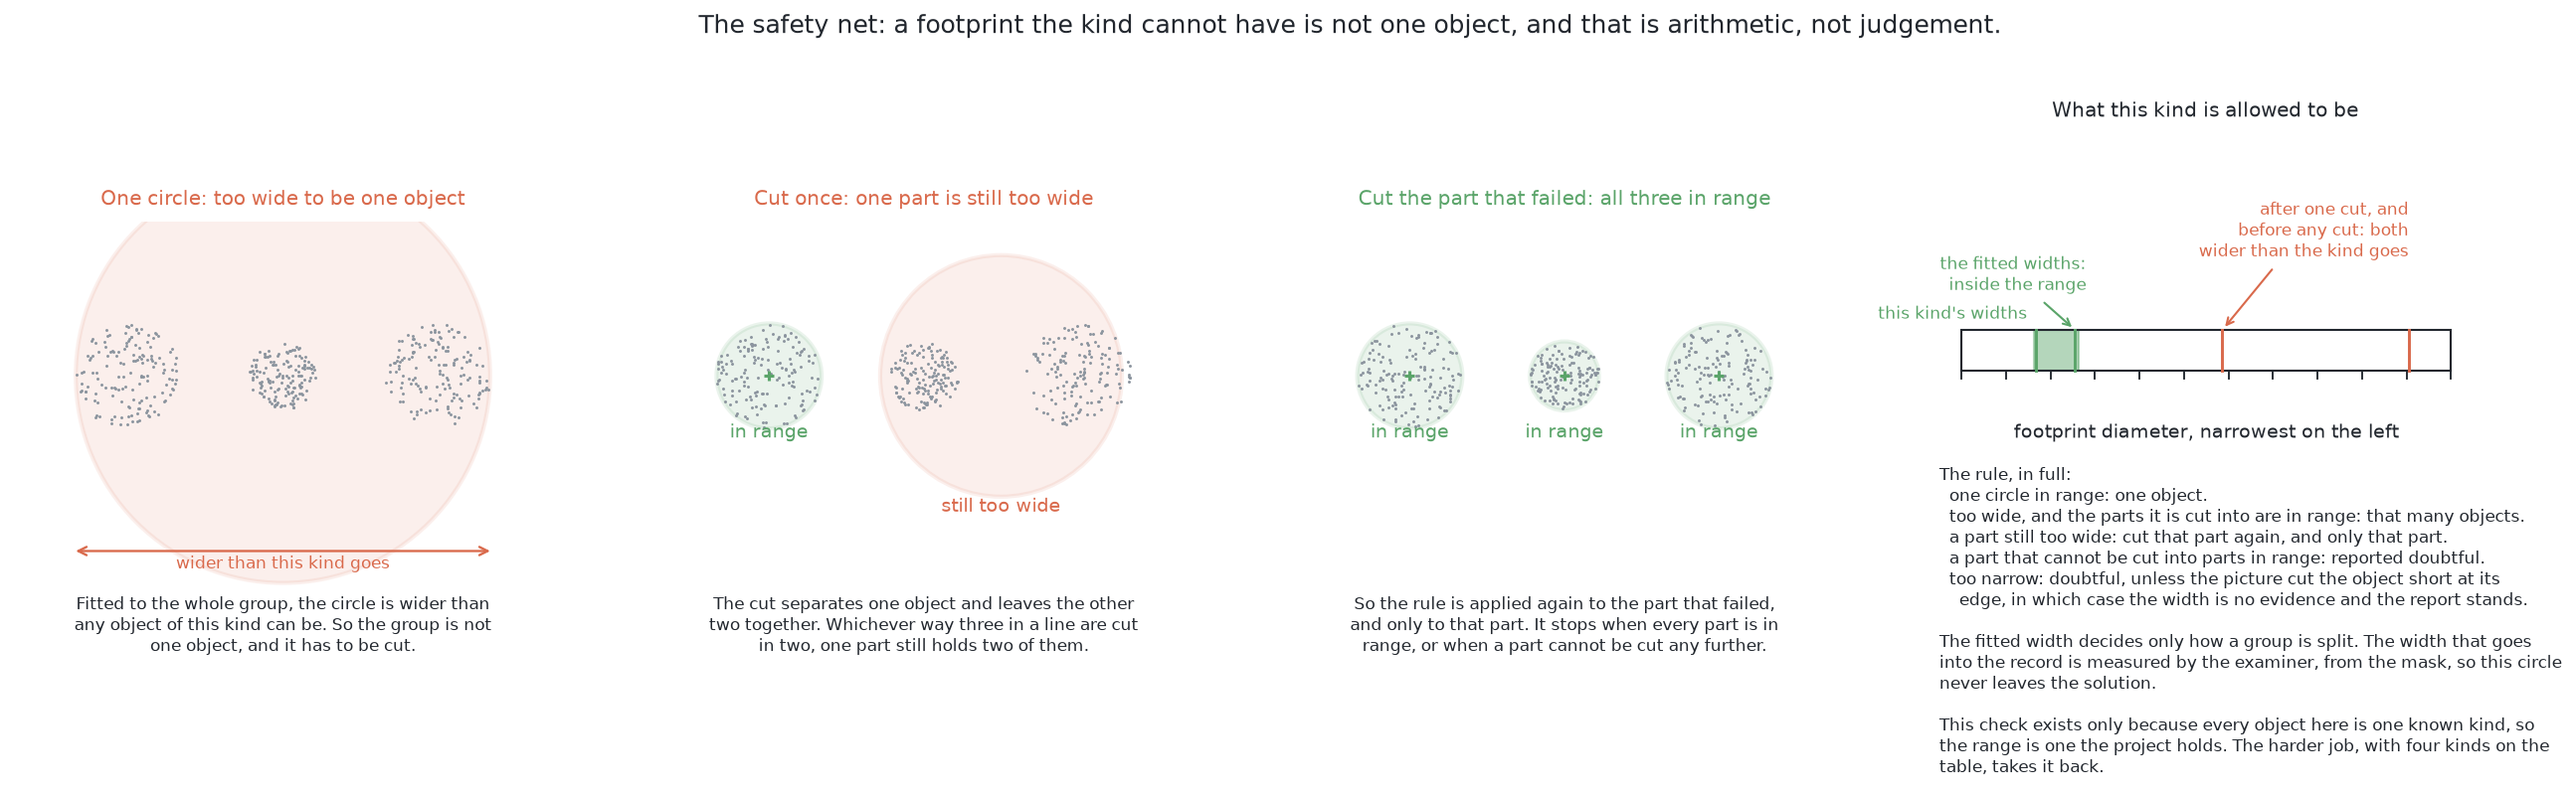
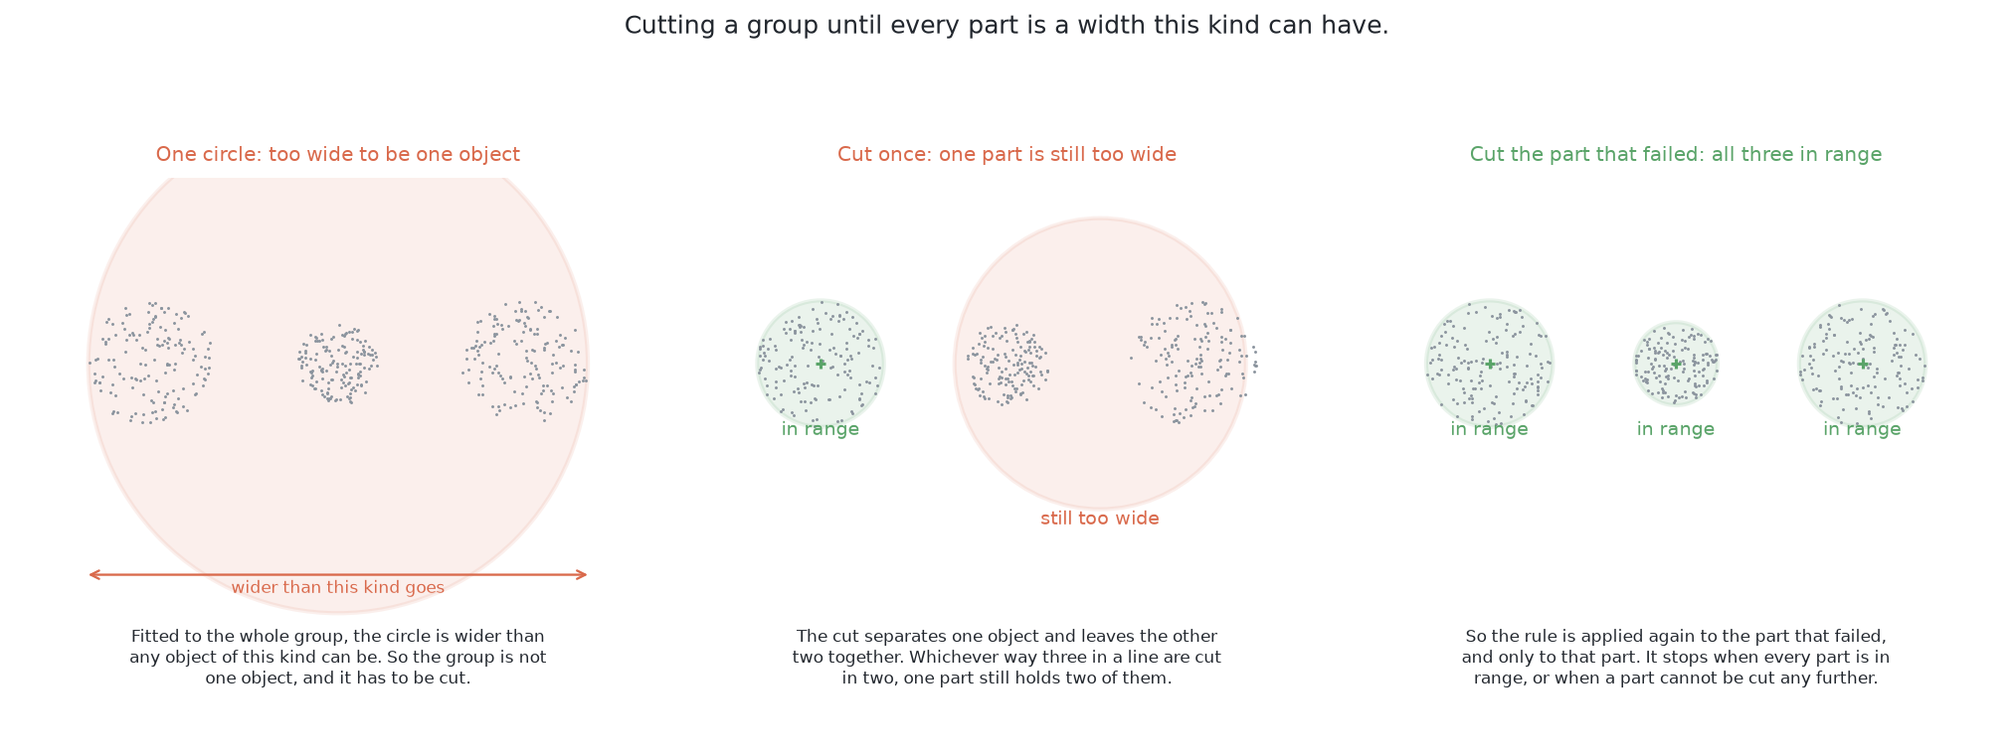
Three more pictures that were carrying two arguments each
A sweep of every multi-panel figure in both books found three where the
panels are not one thing seen two ways, which is the only case the rules
allow.

08-where-it-stops.png was a drawing of the covered pair beside a five-step
flow chart. The chart is a whole argument on its own, so it is now its own
picture.

10-where-it-stops.png was two arrangements beside a four-row table and two
paragraphs. The two arrangements belong together and stay together; the
table is a table in the document now.

02-circle-fit-decides.png was three steps of one cutting process beside a
range bar carrying a six-line rule. The three steps stay together, the
range bar is its own picture, and the rule was already prose a few
paragraphs above it.

diff --git a/docs/diagrams/seeing-the-glasses/make_08_images.py b/docs/diagrams/seeing-the-glasses/make_08_images.py
@@ -1,6 +1,6 @@
 """Diagrams for solution 5 — SAM 2 with a keeper.
 
-Eleven pictures, each carrying one point of the document:
+Twelve pictures, each carrying one point of the document:
 
     08-a-fixed-list-of-classes.png   a model whose question was settled when
                                      its weights were fitted
@@ -21,8 +21,10 @@ Eleven pictures, each carrying one point of the document:
                                      from depth, which is the honest risk
     08-borrowed-against-trained.png  what SAM 2 brings against what is fitted here,
                                      and against solution 2, which fits it all
-    08-where-it-stops.png            a glass covered completely: no pixels, so
-                                     no prompt point, so no proposal
+    08-where-it-stops.png            a glass covered completely by another, so
+                                     no prompt point can land on it
+    08-why-nothing-catches-it.png    the chain from that geometry to the keeper
+                                     never being shown the glass at all
 
 Run from the project root:
 
@@ -1172,10 +1174,12 @@ def figure_where_it_stops() -> None:
     on_short = hits.count(short)
     assert on_short == 0, "a covered glass must collect no prompt points at all"
 
-    figure, (left, right) = new(14.8, 7.0, columns=2)
+    # Two pictures, not two panels. The scene is one idea and the chain of
+    # five steps is a whole argument on its own, and a flow chart beside a
+    # drawing halves the size of both.
+    figure, left = new(8.6, 5.4)
 
     plan_axis(left, extent)
-    panel_title(left, "The top view: one silhouette, two glasses", colour=WARN)
     splay_patch(left, shapes[tall], colour=GLASS, alpha=0.20, zorder=3)
     for index, (centre, radius) in enumerate(shapes[short]):
         if index % 9 == 0 or index == len(shapes[short]) - 1:
@@ -1203,10 +1207,24 @@ def figure_where_it_stops() -> None:
          f"{on_short} landed on the short glass.",
          colour=INK, va="bottom", halo=True)
 
+    figure.suptitle(
+        "A glass with no pixels of its own: the tall one's outline covers the short one entirely.",
+        fontsize=TITLE_SIZE, color=INK, y=1.01,
+    )
+    figure.tight_layout()
+    figure.text(
+        0.5, -0.02,
+        f"Both glasses are of the one kind on the table, one near the tall end of its range of sizes and one "
+        f"near the short end,\nstanding {apart:.0f} mm apart, which is further apart than the guaranteed "
+        f"gap of {MIN_APART:.0f} mm. The arrangement is an ordinary one.",
+        ha="center", va="top", fontsize=NOTE_SIZE, color=INK,
+    )
+    save(figure, "08-where-it-stops.png")
+
+    figure, right = new(8.6, 5.2)
     bare(right)
     right.set_xlim(0, 1)
     right.set_ylim(0, 1)
-    panel_title(right, "Why nothing in this solution can catch it")
 
     chain = (
         ("the geometry", f"the tall glass stands {apart:.0f} mm from the short one,\n"
@@ -1239,20 +1257,17 @@ def figure_where_it_stops() -> None:
     )
 
     figure.suptitle(
-        "Where this solution stops: a prompt is a pixel, and a glass with no pixels cannot be prompted.",
+        "Why nothing in this solution catches it: a prompt is a pixel, and this glass has none.",
         fontsize=TITLE_SIZE, color=INK, y=1.01,
     )
     figure.tight_layout()
     figure.text(
         0.5, -0.03,
-        f"Both glasses here are of the one kind on the table, one near the tall end of its range of sizes and "
-        f"one near the short end, standing {apart:.0f} mm apart, "
-        f"which is further\napart than the guaranteed gap of {MIN_APART:.0f} mm. The arrangement "
-        "is an ordinary one, and the project's own coverage test confirms that every point of the short glass's\noutline falls inside the tall one's. This is the same "
-        "limit every solution in this problem meets, and it is geometry, not a weakness of any model.",
+        "This is the same limit every solution in this problem meets, and it is geometry rather than a "
+        "weakness of any model.",
         ha="center", va="top", fontsize=NOTE_SIZE, color=INK,
     )
-    save(figure, "08-where-it-stops.png")
+    save(figure, "08-why-nothing-catches-it.png")
     print(f"  hidden pair: {apart:.0f} mm apart, tall patch {patch_mm:.0f} mm across, "
           f"{on_tall} prompt points on the tall glass, {on_short} on the short one")
 

diff --git a/docs/diagrams/seeing-the-glasses/make_10_images.py b/docs/diagrams/seeing-the-glasses/make_10_images.py
@@ -651,7 +651,11 @@ def figure_where_it_stops() -> None:
     gone_amodal, gone_modal = far_masks[HIDING_SHORT[0]]
     gone_area = area_of(gone_modal, far_step)
 
-    figure, (works, stops, ladder) = new(16.2, 5.6, columns=3)
+    # Two panels, not three. The two arrangements are the same question seen
+    # twice, so they belong in one picture. The third panel was a table and two
+    # paragraphs, which were never a picture, and they are prose in the
+    # document now.
+    figure, (works, stops) = new(11.6, 5.6, columns=2)
 
     window = mask_window(amodal, near_x, near_y, pad=26.0)
     plan_panel(works, window)
@@ -683,40 +687,6 @@ def figure_where_it_stops() -> None:
          f"{HIDING_SHORT[0]}, which stands "
          f"{np.hypot(*(HIDING_SHORT[1] - HIDING_TALL[1])):.0f} mm away.", colour=INK)
 
-    bare(ladder)
-    ladder.set_xlim(0, 100)
-    ladder.set_ylim(-34, 104)
-    panel_title(ladder, "What each case gives the model to work with")
-    rungs = (
-        ("pixels in the picture", f"{100.0 * kept:.0f}% of the glass", "none at all"),
-        ("a slot filled by it", "yes", "nothing fills a slot"),
-        ("a mask to complete", "yes", "no mask to extend"),
-        ("a place on the table", "from the pixels seen", "no glass is reported"),
-    )
-    ladder.text(46, 99, "partly covered", ha="center", va="bottom", fontsize=NOTE_SIZE, color=GOOD,
-                weight="bold")
-    ladder.text(84, 99, "covered completely", ha="center", va="bottom", fontsize=NOTE_SIZE,
-                color=WARN, weight="bold")
-    for index, (stage, good_text, bad_text) in enumerate(rungs):
-        y = 86 - index * 21
-        ladder.text(0, y, stage, ha="left", va="center", fontsize=NOTE_SIZE, color=INK)
-        ladder.text(46, y, good_text, ha="center", va="center", fontsize=NOTE_SIZE, color=GOOD)
-        ladder.text(84, y, bad_text, ha="center", va="center", fontsize=NOTE_SIZE, color=WARN)
-        ladder.plot([0, 100], [y - 10.5, y - 10.5], color=MUTED, lw=0.6, alpha=0.6)
-    note(ladder, 0, -6,
-         "Completion extends evidence, so it needs evidence to\n"
-         "extend. The first rung is where the completely covered\n"
-         "glass fails, and no amount of training reaches a rung\n"
-         "below the one it stands on.\n\n"
-         "This is why the checks in this project are checks on\n"
-         "something that was found, and why a glass that was\n"
-         "never found is the dangerous case. The way out is not\n"
-         "a better model but a second look from somewhere else,\n"
-         "which is what moving the camera is for: turn the pair\n"
-         "about the camera and the hiding is undone, because\n"
-         "splay acts along the direction out from the camera and\n"
-         "not across it.", colour=INK, va="top")
-
     figure.suptitle(
         "Amodal completion extends what was seen, so a glass that appears in no picture is beyond "
         "it.",
@@ -727,14 +697,8 @@ def figure_where_it_stops() -> None:
         0.5, -0.03,
         f"Both pairs are arrangements the cell allows: the centres are "
         f"{np.hypot(*(BITTEN[1] - OCCLUDER_FAR[1])):.0f} mm apart on the left and "
-        f"{np.hypot(*(HIDING_SHORT[1] - HIDING_TALL[1])):.0f} mm apart on the right, and the cell "
-        f"guarantees at least {MIN_APART:.0f} mm. Whether one silhouette covers another is decided "
-        "by the same test the rest of these\ndiagrams use, which walks the boundary of the covered "
-        "glass's silhouette and asks whether every point of it lies inside the covering one. On the "
-        "right that test is true, so the short glass contributes no pixels, no slot is filled with "
-        "it, and there is\nno mask to extend. The one glass that does come back is the tall glass "
-        "itself, with a correct mask over its own pixels and a width this kind is allowed to have, "
-        "so nothing anywhere says a glass is missing.",
+        f"{np.hypot(*(HIDING_SHORT[1] - HIDING_TALL[1])):.0f} mm apart on the right,\nand the cell "
+        f"guarantees at least {MIN_APART:.0f} mm.",
         ha="center", va="top", fontsize=NOTE_SIZE, color=INK,
     )
     print(f"  where it stops: partly covered keeps {100.0 * kept:.0f}%, "

diff --git a/docs/diagrams/seeing-the-glasses/make_02_images.py b/docs/diagrams/seeing-the-glasses/make_02_images.py
@@ -575,7 +575,10 @@ def figure_circle_fit() -> None:
     produce, and it is the reason one split into two cannot be enough: whichever
     way a group of three is cut in two, one of the two parts still holds two.
     """
-    figure, (one, once, twice, ruler) = new(18.2, 5.4, columns=4)
+    # Three panels, not four. The three cuts are one process in three steps, so
+    # they belong in one picture. The ruler is a different claim and gets a
+    # picture of its own, and the six-line rule it carried is prose now.
+    figure, (one, once, twice) = new(13.6, 5.4, columns=3)
 
     # Three in a line, which is what the crowded tables stand up.
     blobs = (
@@ -628,11 +631,18 @@ def figure_circle_fit() -> None:
          "part. It stops when every part is in\nrange, or when a part cannot be cut any further.",
          colour=INK, ha="center", va="top")
 
+    figure.suptitle(
+        "Cutting a group until every part is a width this kind can have.",
+        fontsize=TITLE_SIZE, color=INK, y=1.02,
+    )
+    figure.tight_layout()
+    save(figure, "02-circle-fit-decides.png")
+
     # the ruler the decision is made against
+    figure, ruler = new(9.0, 3.2)
     bare(ruler)
     ruler.set_xlim(-22, 460)
-    ruler.set_ylim(-3.4, 2.0)
-    panel_title(ruler, "What this kind is allowed to be")
+    ruler.set_ylim(-1.1, 2.0)
     ruler.add_patch(Rectangle((KIND_NARROWEST, 0), KIND_WIDEST - KIND_NARROWEST, 0.34,
                               facecolor=GOOD, alpha=0.45, edgecolor=GOOD, lw=1.0))
     ruler.add_patch(Rectangle((0, 0), 440, 0.34, facecolor="none", edgecolor=INK, lw=1.0))
@@ -666,31 +676,12 @@ def figure_circle_fit() -> None:
         color=WARN,
         arrowprops={"arrowstyle": "->", "color": WARN, "lw": 1.0},
     )
-    ruler.text(
-        -20, -0.80,
-        "The rule, in full:\n"
-        "  one circle in range: one object.\n"
-        "  too wide, and the parts it is cut into are in range: that many objects.\n"
-        "  a part still too wide: cut that part again, and only that part.\n"
-        "  a part that cannot be cut into parts in range: reported doubtful.\n"
-        "  too narrow: doubtful, unless the picture cut the object short at its\n"
-        "    edge, in which case the width is no evidence and the report stands.\n\n"
-        "The fitted width decides only how a group is split. The width that goes\n"
-        "into the record is measured by the examiner, from the mask, so this circle\n"
-        "never leaves the solution.\n\n"
-        "This check exists only because every object here is one known kind, so\n"
-        "the range is one the project holds. The harder job, with four kinds on the\n"
-        "table, takes it back.",
-        ha="left", va="top", fontsize=NOTE_SIZE, color=INK,
-    )
-
     figure.suptitle(
-        "The safety net: a footprint the kind cannot have is not one object, and that is arithmetic, "
-        "not judgement.",
+        "A footprint the kind cannot have is not one object, and that is arithmetic.",
         fontsize=TITLE_SIZE, color=INK, y=1.02,
     )
     figure.tight_layout()
-    save(figure, "02-circle-fit-decides.png")
+    save(figure, "02-the-widths-against-the-range.png")
 
 
 # --------------------------------------------------------------------------- #

diff --git a/docs/08_seeing-the-glasses/10_a-transformer-segmenter-fine-tuned/04_a-worked-example.md b/docs/08_seeing-the-glasses/10_a-transformer-segmenter-fine-tuned/04_a-worked-example.md
@@ -33,7 +33,30 @@ model that extends nothing produces nothing. What completion does buy is that
 it needs less of a glass than anything else here, so the point at which hiding
 becomes complete is further out with it than without it.
 
-![A partly covered glass still reaches the picture, so it fills a slot of its own and leaves an edge to carry on from, while a glass whose outline is swallowed whole reaches it nowhere and leaves nothing to extend, which is the way at which completion stops.](../../images/seeing-the-glasses/a-transformer-segmenter-fine-tuned/10-where-it-stops.png)
+![Two arrangements side by side: on the left a glass two thirds of which reaches the picture, with the covered part marked, and on the right a glass whose outline is swallowed whole by a taller one in front of it.](../../images/seeing-the-glasses/a-transformer-segmenter-fine-tuned/10-where-it-stops.png)
+
+The table below sets the two cases against each other, one row for each thing
+the model needs before it can answer at all. Read a row as a question, and the
+two columns after it as the answer in each case.
+
+| what the model needs | partly covered | covered completely |
+| --- | --- | --- |
+| pixels in the picture | 67 per cent of the glass | none at all |
+| a slot filled by it | yes | nothing fills a slot |
+| a mask to complete | yes | no mask to extend |
+| a place on the table | from the pixels seen | no glass is reported |
+
+The first row is where the completely covered glass fails, and no amount of
+training reaches a row below the one it stands on. This is why every check in
+this project is a check on something that was found, and why a glass that was
+never found is the dangerous case. The one glass that does come back on the
+right is the tall glass itself, with a correct mask over its own pixels and a
+width this kind is allowed to have, so nothing anywhere says a glass is missing.
+
+The way out is not a better model but a second look from somewhere else, which
+is what moving the camera is for. Turn the pair about the camera and the hiding
+is undone, because splay acts along the direction out from the camera and not
+across it.
 
 A model **could** be trained to mark a glass that might be behind this one,
 since the examiner can supply that label too, and it is worth saying what such

diff --git a/docs/08_seeing-the-glasses/05_rules-on-the-table/02_how-it-works.md b/docs/08_seeing-the-glasses/05_rules-on-the-table/02_how-it-works.md
@@ -279,7 +279,15 @@ when they do not. And if any part cannot be settled either way, the whole group
 is reported as doubtful, with which side of the range it failed, rather than
 guessed at.
 
-![One circle fitted to the whole group comes out wider than any glass of this kind can be, so the group is rejected as one glass and two circles are fitted instead; both of those lie inside the widths the kind allows, so the group is split in two, and the fitted width decides only the split, because the width that goes into the record is measured by the examiner.](../../images/seeing-the-glasses/rules-on-the-table/02-circle-fit-decides.png)
+![Three steps on one group of three objects: one circle round all of them is too wide, one cut leaves a part that is still too wide, and cutting that part again leaves three parts all inside the range.](../../images/seeing-the-glasses/rules-on-the-table/02-circle-fit-decides.png)
+
+The picture below is the ruler those three steps are measured against. It is a
+line of footprint diameters from narrow to wide, with the band this kind is
+allowed to be marked on it. The two fitted widths that passed sit inside the
+band, and the two that failed, before any cut and after the first one, sit well
+to the right of it.
+
+![A line of footprint diameters with a narrow green band marking the widths this kind is allowed, two marks inside the band, and two marks far to the right of it.](../../images/seeing-the-glasses/rules-on-the-table/02-the-widths-against-the-range.png)
 
 Splitting a group in two is done with a simple and well-known method called
 k-means with two centres: put one seed at each end of the group's longest

diff --git a/docs/08_seeing-the-glasses/09_a-foundation-model-with-a-keeper/04_a-worked-example.md b/docs/08_seeing-the-glasses/09_a-foundation-model-with-a-keeper/04_a-worked-example.md
@@ -33,7 +33,16 @@ no box and no rough mask that makes a model return a glass which cast no
 pixels. With no proposal for the hidden glass, the keeper's three answers are
 never asked for, and every check here is a check on a proposal.
 
-![A prompt point over the piece of table where the hidden glass stands lands on the covering glass, so the mask that comes back is the covering glass's, no proposal for the hidden glass ever exists, and the keeper is never consulted about it.](../../images/seeing-the-glasses/a-foundation-model-with-a-keeper/08-where-it-stops.png)
+The first picture is the arrangement itself, seen from above. The short glass
+stands entirely inside the tall one's outline, so not one of the 464 prompt
+points can land on it.
+
+![A top view of two glasses, where the tall one's splayed outline covers the short one completely and every prompt point that falls on the pair lands on the tall glass.](../../images/seeing-the-glasses/a-foundation-model-with-a-keeper/08-where-it-stops.png)
+
+The second picture follows that geometry through the solution, one step at a
+time, to show that there is no stage at which anything could have noticed.
+
+![Five steps from the geometry to the keeper: no pixel, so no prompt, so no proposal, so the keeper is never shown the glass at all.](../../images/seeing-the-glasses/a-foundation-model-with-a-keeper/08-why-nothing-catches-it.png)
 
 One temptation is worth naming, because this solution invites it. A foundation
 model's strength is that it generalises to objects it never saw, and it is easy
